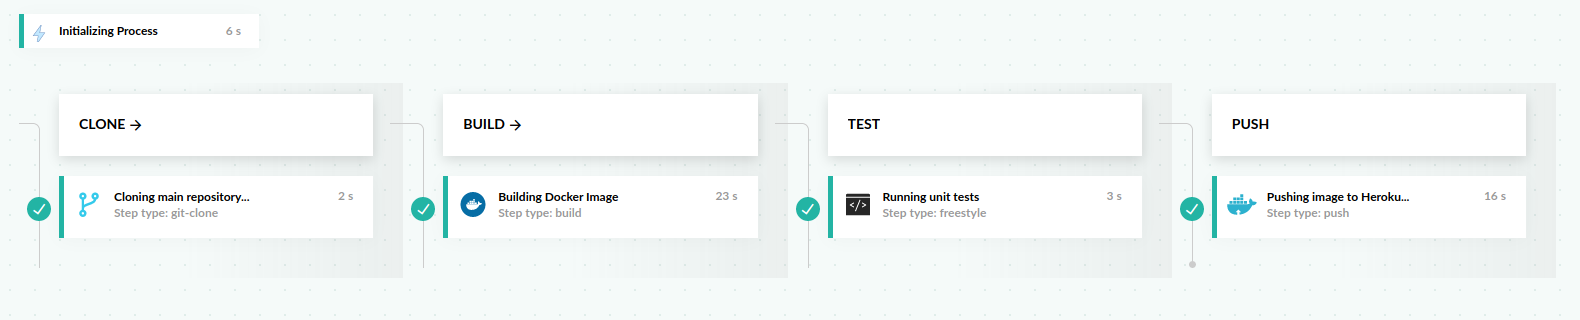
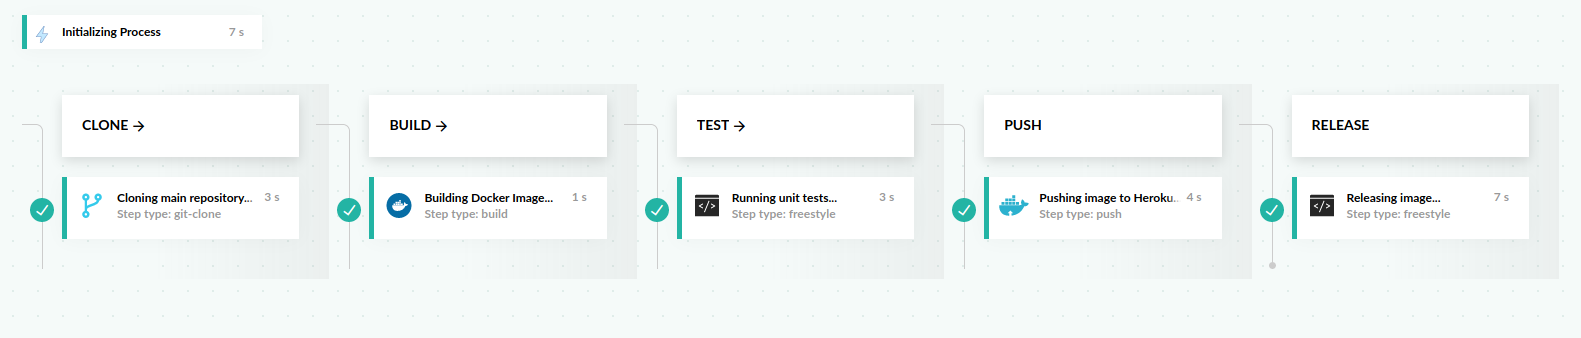
Slight modifications to screenshots and pipelines

diff --git a/_docs/yaml-examples/examples/deploy-to-heroku.md b/_docs/yaml-examples/examples/deploy-to-heroku.md
@@ -6,11 +6,6 @@ sub_group: examples
 toc: true
 ---
 
-## Prerequisites
-
-- A [free Codefresh account](https://codefresh.io/docs/docs/getting-started/create-a-codefresh-account/)
-- A [free Heroku account](https://signup.heroku.com)
-
 ## The Example Django Application
 
 You can find the example project on [Github](https://github.com/codefresh-contrib/heroku-python-django-sample-app).
@@ -27,6 +22,8 @@ Once launched the application presents the Django starter page at localhost:8000
 
 ### Prerequisites
 
+- A [free Codefresh account](https://codefresh.io/docs/docs/getting-started/create-a-codefresh-account/)
+- A [free Heroku account](https://signup.heroku.com)
 - A Heroku API token (you can find this under **Account Settings** and then scrolling down, you will find the API Key)
 
 ### Create the Pipeline 
@@ -44,12 +41,12 @@ max-width="100%"
 
 You should be able to copy and paste this YAML in the in-line editor of the Codefresh UI.  It will automatically clone the project for you.
 
-Note that you need to change the environment variables under the `deploy` step to your respective values.  You can do this directly in the YAML itself, or through the Codefresh UI.  Navigate to the in-line editor, and to the right you will find a tab lebeled **Variables**.
+Note that you need to change the environment variables in the deploy stage to your respective values.  You can do this directly [in the YAML itself]({{site.baseurl}}/docs/how-to-guides/migrating-from-travis-ci/#environment-variables), or through the Codefresh UI.  Navigate to the in-line editor, and to the right you will find a tab lebeled **Variables**.
 
 {% include image.html 
 lightbox="true" 
-file="/images/examples/deployments/heroku-deployer-variables.png" 
-url="/images/examples/deployments/heroku-deployer-variables.png" 
+file="/images/examples/deployments/heroku-deployer-variables2.png" 
+url="/images/examples/deployments/heroku-deployer-variables2.png" 
 alt="Codefresh UI Pipeline Variables View"
 caption="Codefresh UI Pipeline Variables View"
 max-width="100%" 
@@ -97,20 +94,34 @@ The above pipeline does the following:
 
 1. A [git-clone]({{site.baseurl}}/docs/codefresh-yaml/steps/git-clone/) step that clones the main repository
 2. A [freestyle step]({{site.baseurl}}/docs/codefresh-yaml/steps/freestyle/) that installs dependencies and runs the unit tests
-3. A freestyle step that deploys the application to Heroku using the heroku-deployer plugin from the [Step Marketplace]()
+3. A freestyle step that deploys the application to Heroku using the heroku-deployer plugin from the [Step Marketplace](https://codefresh.io/steps/step/heroku-deployer)
 
 ## Pipeline Example #2: Deploy a Docker Image to Heroku
 
 This example differs from the plugin usage, as it will deploy a built Docker image to Heroku.
 
+Note that you need to change the environment variables to your respective values.  You can do this directly [in the YAML itself]({{site.baseurl}}/docs/how-to-guides/migrating-from-travis-ci/#environment-variables), or through the Codefresh UI.  Navigate to the in-line editor, and to the right you will find a tab lebeled **Variables**.
+
+{% include image.html 
+lightbox="true" 
+file="/images/examples/deployments/heroku-deployer-variables.png" 
+url="/images/examples/deployments/heroku-deployer-variables.png" 
+alt="Codefresh UI Pipeline Variables View"
+caption="Codefresh UI Pipeline Variables View"
+max-width="100%" 
+%}
+
 ## Prerequisites
 
-- A empty repository already created in Heroku using the `heroku create <IMAGE_NAME>` command
+- A [free Codefresh account](https://codefresh.io/docs/docs/getting-started/create-a-codefresh-account/)
+- A [free Heroku account](https://signup.heroku.com)
+- An empty repository already created in Heroku using the `heroku create <IMAGE_NAME>` command
 - A Heroku registry [connected to Codefresh]({{site.baseurl}}/docs/docker-registries/external-docker-registries/other-registries/#heroku-registries)
+- A Heroku API token (you can find this under **Account Settings** and then scrolling down, you will find the API Key)
 
 ### Create the Pipeline 
 
-This pipeline will have four stages: clone, build, test, and push.
+This pipeline will have five stages: clone, build, test, push, and release.
 
 {% include image.html 
 lightbox="true" 
@@ -127,10 +138,13 @@ You should be able to copy and paste this YAML in the in-line editor of the Code
 {% highlight yaml %}
 {% raw %}
 version: '1.0'
+version: '1.0'
 stages:
  - clone
+ - build
  - test
- - deploy
+ - push
+ - release
 steps:
   clone:
     title: "Cloning main repository..."
@@ -140,31 +154,56 @@ steps:
       repo: "codefresh-contrib/heroku-python-django-sample-app"
       revision: "master"
       git: "github"
+  build:
+    title: "Building Docker Image..."
+    stage: "build"
+    type: "build"
+    working_directory: "./heroku-python-django-sample-app"
+    arguments: 
+      image_name: "${{IMAGE_NAME}}"
+      tag: "master"
+      dockerfile: "Dockerfile"
   run_unit_tests:
      title: "Running unit tests..."
      stage: "test"
      type: "freestyle"
-     working_directory: "${{clone}}"
+     working_directory: "./heroku-python-django-sample-app"
      arguments:
-       image: "python:3.6-slim"
+       image: '${{build}}'
        commands:
-         - "pip install -r requirements.txt --cache-dir=/codefresh/volume/pip-cache"
          - "python -m unittest composeexample.utils"
-  deploy_to_heroku:
-    title: "Deploying to Heroku..."
-    stage: "deploy"
-    type: "heroku-deployer"
+  push_image:
+    title: "Pushing image to Heroku..."
+    stage: "push"
+    type: "push"
     arguments:
-      APP_NAME: $APP_NAME
-      EMAIL: $EMAIL
-      API_TOKEN: $API_TOKEN
+      candidate: '${{build}}'
+      image_name: "${{IMAGE_NAME}}/web"
+      registry: "heroku"
+  release_image:
+    title: "Releasing image..."
+    stage: "release"
+    type: "freestyle"
+    arguments:
+      image: "nazarcodefresh/heroku-cli:alpine"
+      commands:
+        - >-
+          printf "machine api.heroku.com\n  login $EMAIL\n  password
+          $API_TOKEN\nmachine git.heroku.com\n  login $EMAIL\n  password
+          $API_TOKEN\n" > ~/.netrc
+        - "heroku container:release --app $IMAGE_NAME web"
 {% endraw %}
 {% endhighlight %}
 
-
+1. A [git-clone]({{site.baseurl}}/docs/codefresh-yaml/steps/git-clone/) step that clones the main repository
+2. A [freestyle step]({{site.baseurl}}/docs/codefresh-yaml/steps/freestyle/) that builds our Docker image
+3. A freestyle step that runs unit tests on our Docker image
+3. A [push]({{site.baseurl}}/docs/codefresh-yaml/steps/push/) step that pushes to the Heroku registry
+4. A freestyle step that releases the Docker image
 
 
 ## What to Read Next
 
 - [Git-clone Step]({{site.baseurl}}/docs/codefresh-yaml/steps/git-clone/)
 - [Freestyle Step]({{site.baseurl}}/docs/codefresh-yaml/steps/freestyle/)
+- [Push Step]({{site.baseurl}}/docs/codefresh-yaml/steps/push/)
